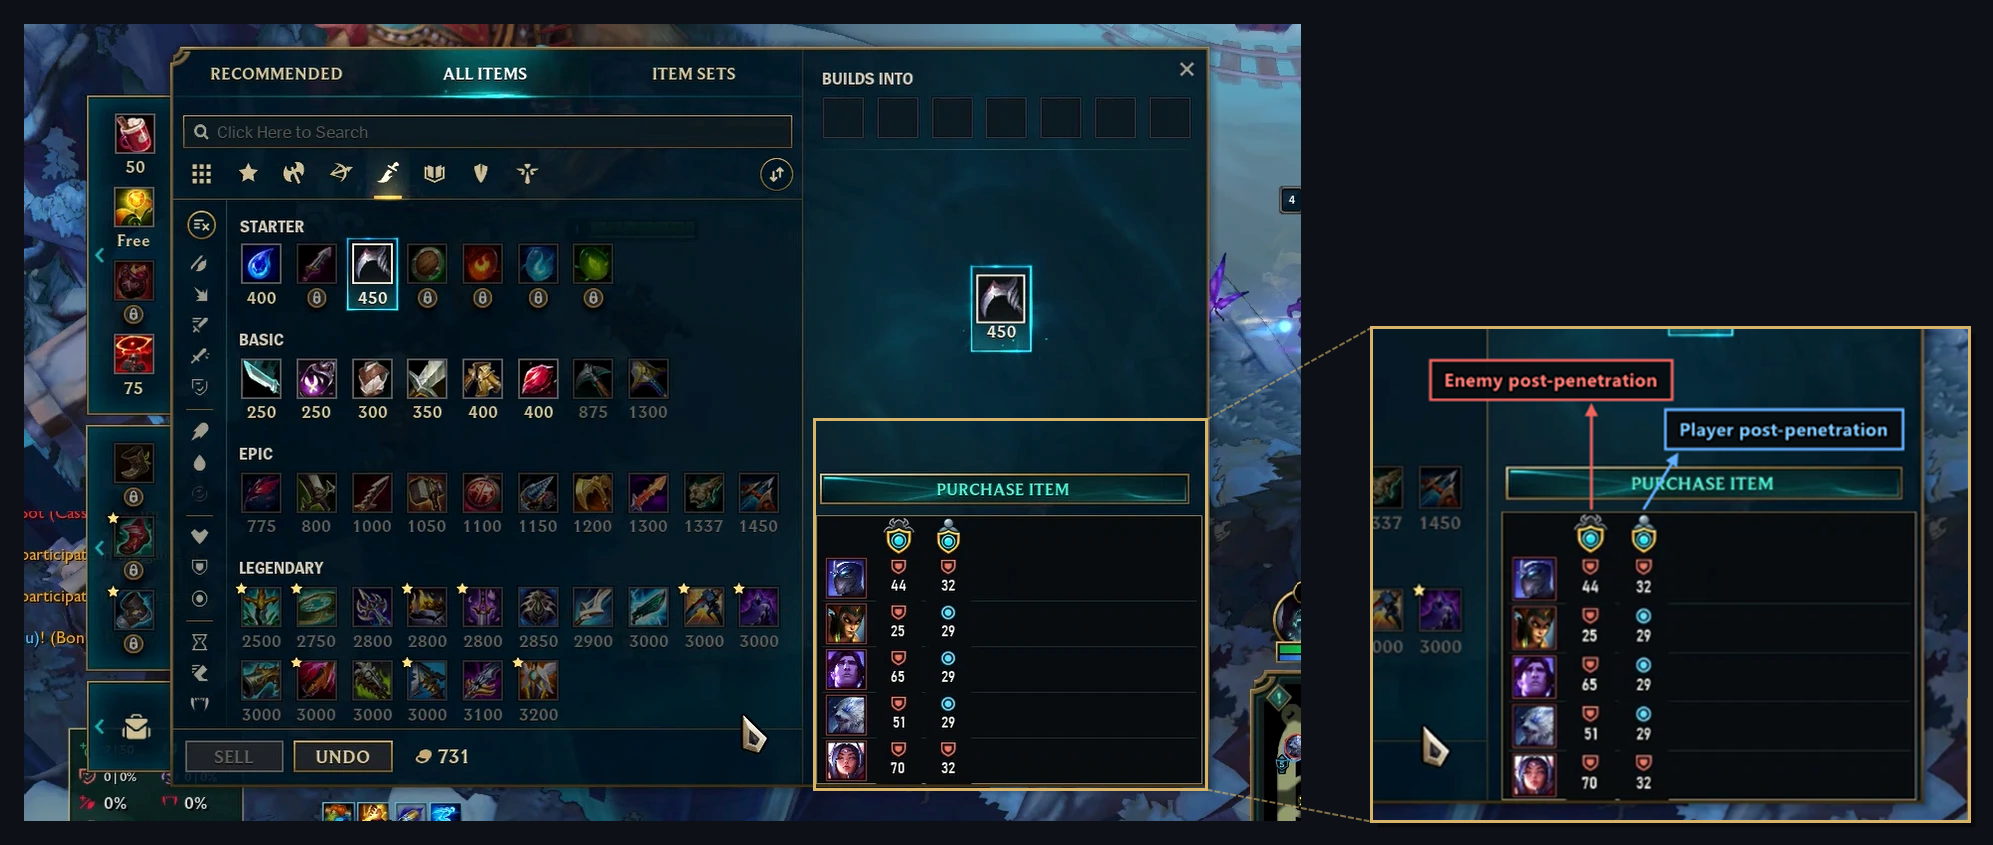
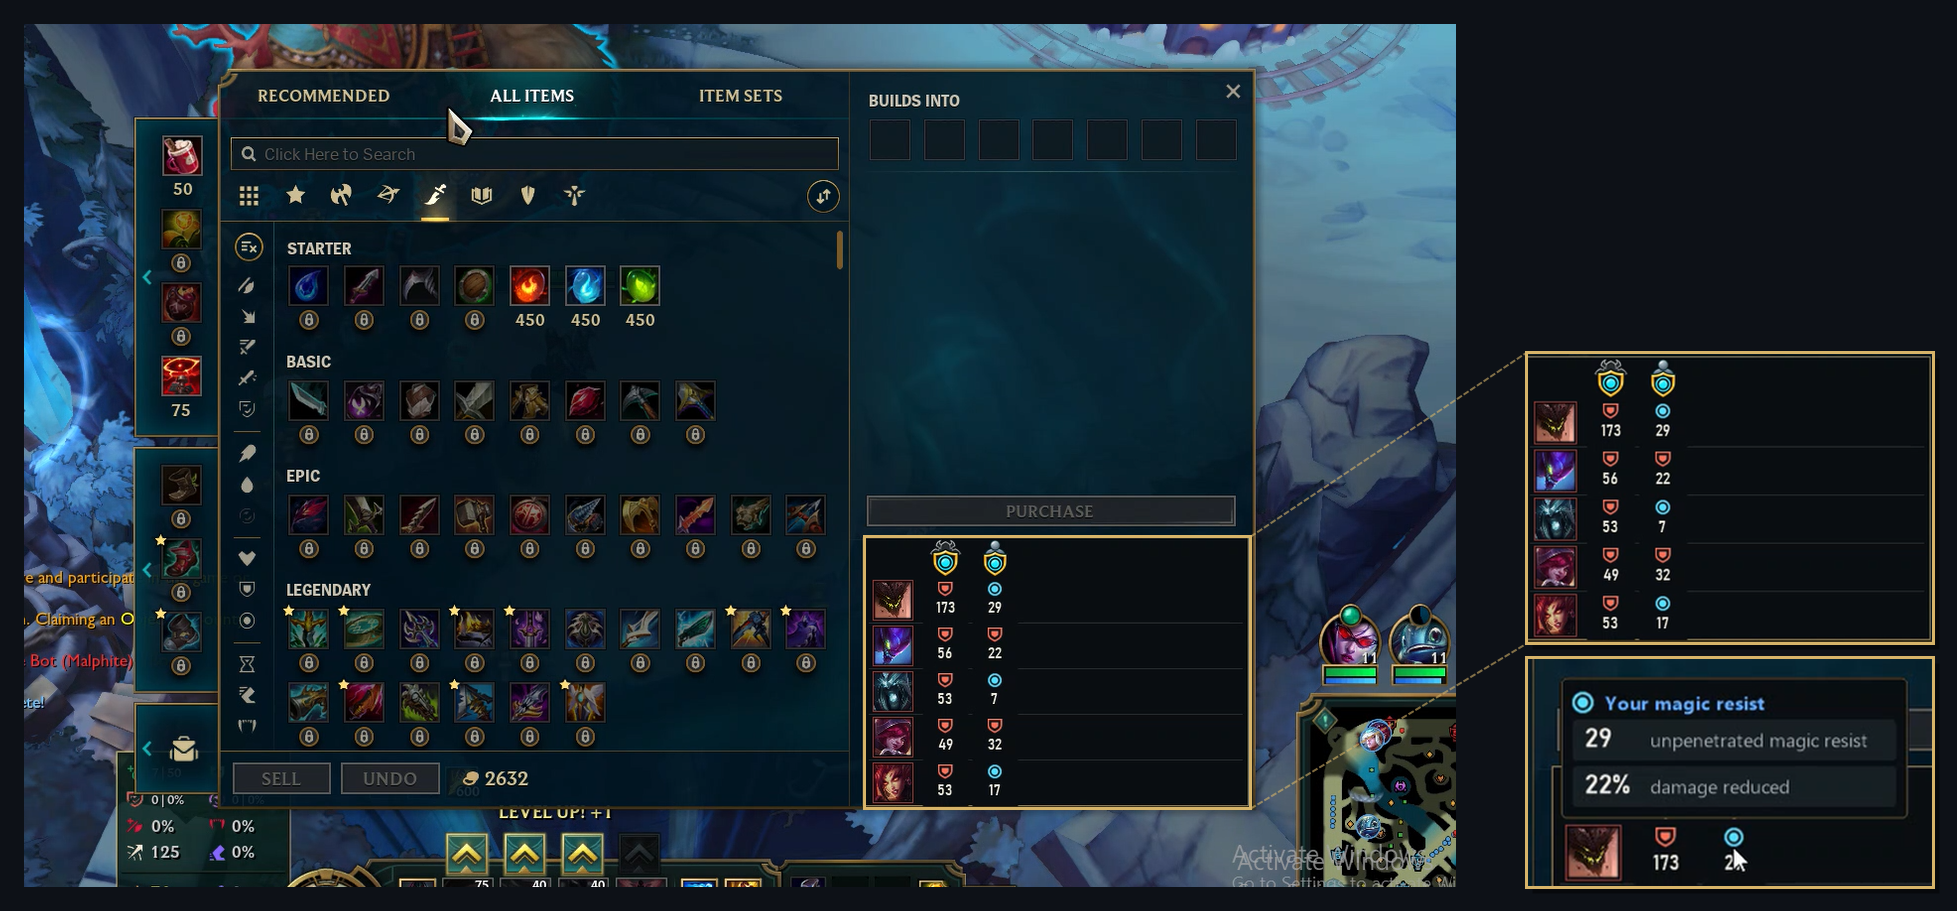
New screenshots with zooms beside each

diff --git a/README.md b/README.md
@@ -8,8 +8,8 @@ League of Legends overlay calculating damage gain/reduce per enemy from penetrat
 ### Damage gain from penetration item
 ![Damage gain from penetration item](images/pen_item.png)
 
-### Defense gain from armor item
-![Defense gain from armor item](images/armor_item.png)
+### Defense gain from magic resist item
+![Defense gain from magic resist item](images/defense_item.png)
 
 ## How it works
 
